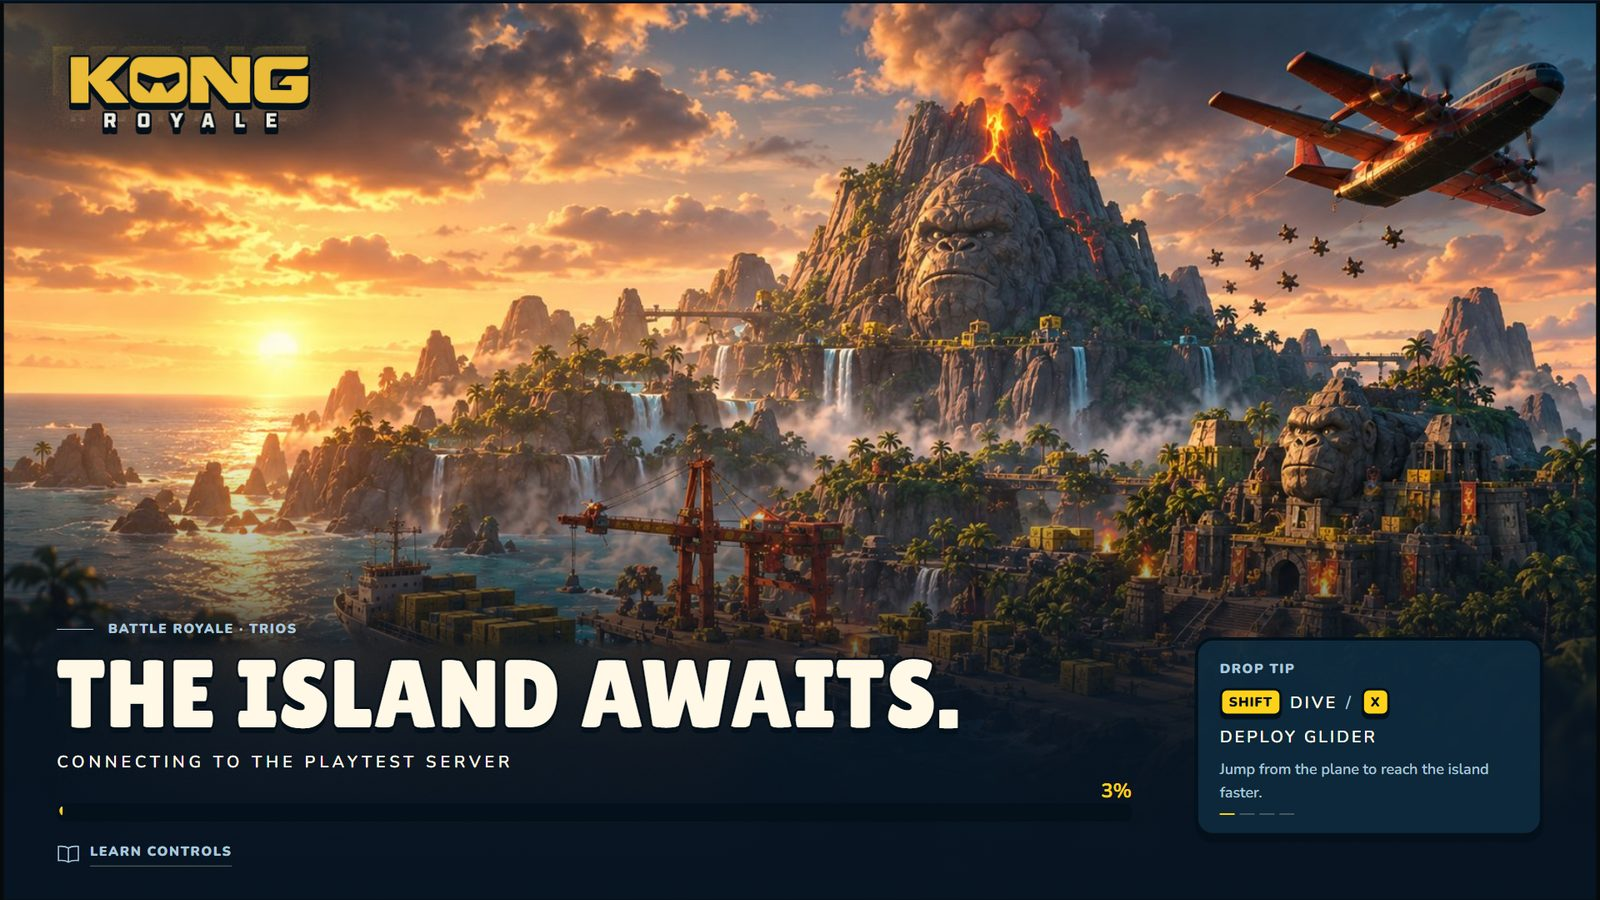
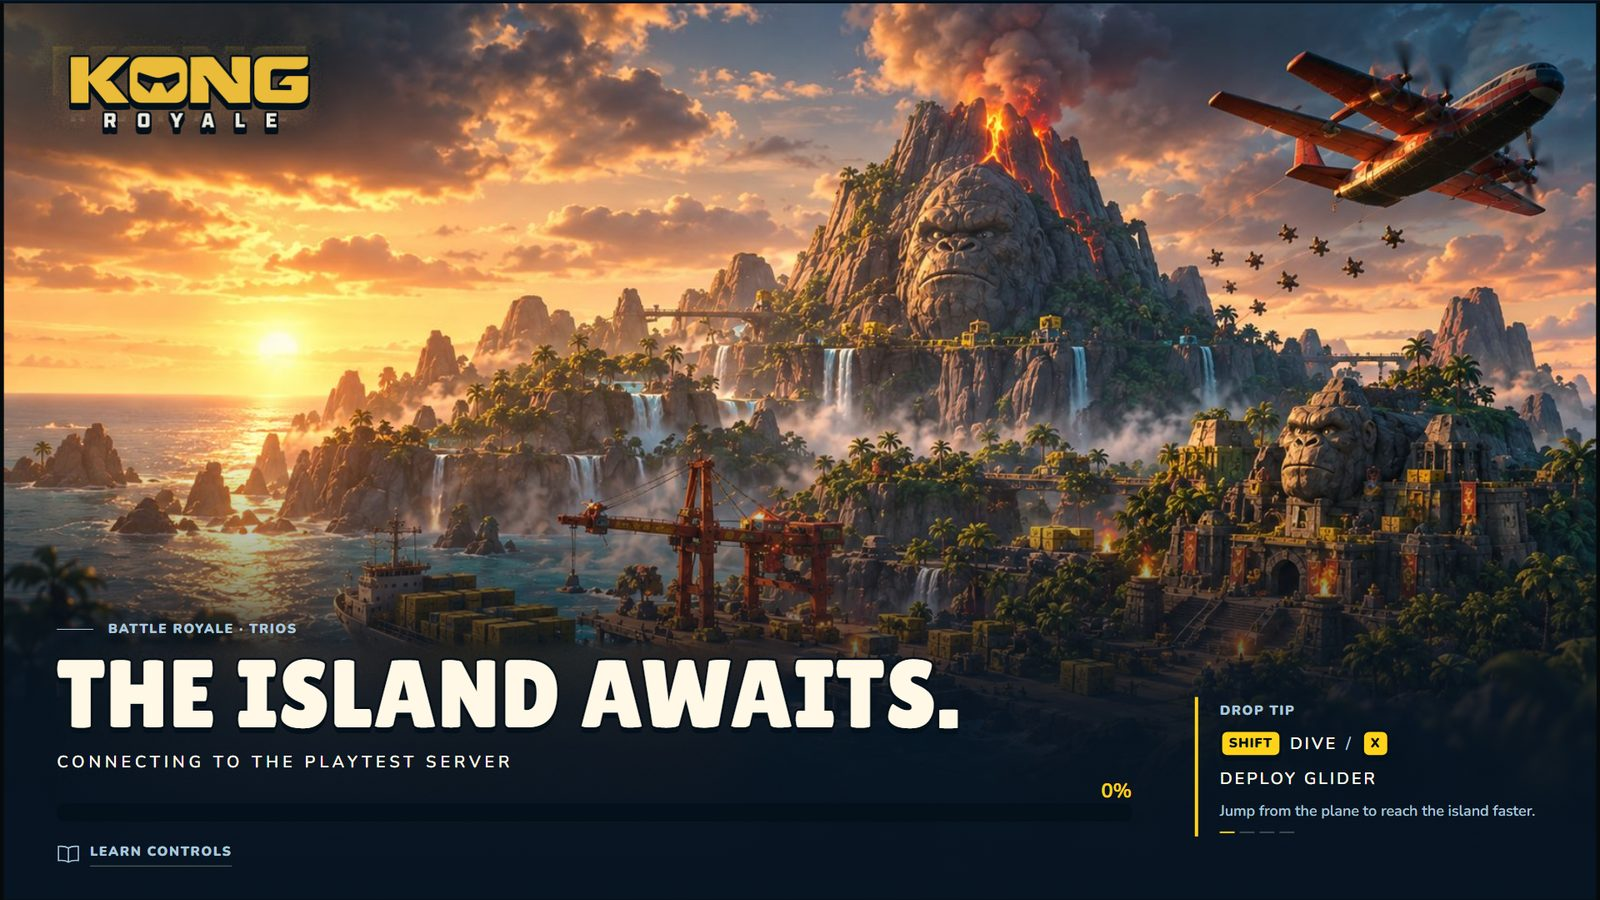
Toon: fewer containers, a middle ground with Premium
Interactive things keep the chunky Toon treatment (buttons, pills,
keycaps, rarity tiles, HUD bars and slots); content goes back to open
rows and typography: settings rows with rules and a pill marker, open
help, typographic menu and lesson lists with a yellow pill on the
current item, pill report categories, open stats, tips, legend and
ammo. Site panels get lighter borders. Docs, prompts, Codex bundle and
all 14 Toon screens updated.

Changed region(s): [[0.7188, 0.6844, 0.9688, 0.9333]]

diff --git a/css/toon.css b/css/toon.css
@@ -378,3 +378,61 @@ html[data-ds="toon"] .stage .st-help::-webkit-scrollbar { display: none; }
 html[data-ds="toon"] .stage .st-help { gap: 10px; padding: 22px 26px; }
 html[data-ds="toon"] .stage .st-help .viz { margin-top: 6px; }
 html[data-ds="toon"] .stage .st-help .k-key { height: 28px; min-width: 28px; font-size: 13px; }
+
+/* =====================================================================
+   TOON · fewer containers (a middle ground with Premium)
+   Interactive things stay chunky (buttons, pills, keycaps, rarity tiles,
+   HUD bars/slots). Content goes back to open rows and typography.
+   ===================================================================== */
+
+/* settings: continuous rows with a thin rule; selected row = soft tint + yellow pill marker */
+html[data-ds="toon"] .stage .k-table, html[data-ds="toon"] .k-scope .k-table { gap: 0; border-top: 2px solid rgba(169,198,218,.18); }
+html[data-ds="toon"] .stage .k-row, html[data-ds="toon"] .k-scope .k-row {
+  background: transparent; border: 0; border-bottom: 2px solid rgba(169,198,218,.18); border-radius: 0; box-shadow: none; min-height: 80px;
+}
+html[data-ds="toon"] .stage .k-row:hover, html[data-ds="toon"] .k-scope .k-row:hover { background: rgba(23,64,90,.35); }
+html[data-ds="toon"] .stage .k-row.sel, html[data-ds="toon"] .k-scope .k-row.sel { background: rgba(23,64,90,.6); border-color: rgba(169,198,218,.18); box-shadow: none; border-radius: 14px; }
+html[data-ds="toon"] .stage .k-row::before, html[data-ds="toon"] .k-scope .k-row::before { display: block; left: 10px; top: 18px; bottom: 18px; width: 8px; border-radius: 999px; background: var(--kong-accent); box-shadow: 0 0 0 3px var(--o); transform: scaleY(0); }
+html[data-ds="toon"] .stage .k-row.sel::before, html[data-ds="toon"] .k-scope .k-row.sel::before { transform: scaleY(1); }
+html[data-ds="toon"] .stage .st-help { background: none; border: 0; box-shadow: none; padding: 28px 0 0; }
+html[data-ds="toon"] .stage .st-divider { background: rgba(169,198,218,.18); }
+html[data-ds="toon"] .stage .viz-prev { border: 0; background: rgba(4,16,26,.45); border-radius: 18px; }
+
+/* match menu: typographic list; only the selected item becomes a chunky yellow pill */
+html[data-ds="toon"] .stage .mn-list { gap: 6px; }
+html[data-ds="toon"] .stage .mn-item { background: none; border-color: transparent; box-shadow: none; color: rgba(255,248,231,.78); padding: 12px 28px; }
+html[data-ds="toon"] .stage .mn-item:hover { color: #fff; }
+html[data-ds="toon"] .stage .mn-item.on { background: linear-gradient(180deg, #FFE45C 0%, #FFD21A 55%, #F2B800 100%); border-color: var(--o); box-shadow: 0 6px 0 var(--o); color: var(--o); }
+html[data-ds="toon"] .stage .mn-leave .mn-item { background: none; color: #FF9AA4; }
+html[data-ds="toon"] .stage .mn-leave .mn-item.on { background: linear-gradient(180deg, #FF7A86, #FF4D5E); color: #fff; }
+html[data-ds="toon"] .stage .an-grid { gap: 0; border-top: 2px solid rgba(169,198,218,.18); }
+html[data-ds="toon"] .stage .an-grid div { border: 0; border-bottom: 2px solid rgba(169,198,218,.18); border-radius: 0; background: none; box-shadow: none; padding: 20px 0; }
+
+/* report: category choices are pills; side column is open */
+html[data-ds="toon"] .stage .rp-cats { gap: 12px 10px; }
+html[data-ds="toon"] .stage .rp-cats button { border-radius: 999px; background: rgba(18,52,75,.7); box-shadow: 0 4px 0 var(--o); padding: 14px 22px !important; min-height: 0; }
+html[data-ds="toon"] .stage .rp-right { background: none; border: 0; border-left: 2px solid rgba(169,198,218,.18) !important; border-radius: 0; box-shadow: none; padding: 0 0 0 48px; }
+html[data-ds="toon"] .stage .rp-att .it { border-bottom: 2px solid rgba(169,198,218,.14); }
+
+/* loading tip, map legend/footer, results stats: open */
+html[data-ds="toon"] .stage .ld-tip { background: none; border: 0; border-left: 4px solid var(--kong-accent); border-radius: 0; box-shadow: none; padding: 4px 0 4px 26px; }
+html[data-ds="toon"] .stage .mp-foot { background: linear-gradient(90deg, rgba(7,20,34,.85), rgba(7,20,34,0)); border: 0; box-shadow: none; border-radius: 0; }
+html[data-ds="toon"] .stage .mp-side { border-radius: 0; border-left: 3px solid var(--o); }
+html[data-ds="toon"] .stage .rs-stats { gap: 0; border-block: 2px solid rgba(169,198,218,.2); }
+html[data-ds="toon"] .stage .rs-stats > div, html[data-ds="toon"] .stage .rs-stats > div + div { border: 0; border-radius: 0; background: none; box-shadow: none; padding: 16px 32px 16px 0; }
+html[data-ds="toon"] .stage .rs-stats > div + div { padding-left: 32px; border-left: 2px solid rgba(169,198,218,.2); }
+
+/* inventory: drop the rounded sheet and the ammo boxes */
+html[data-ds="toon"] .stage .iv { border-radius: 0; border-top: 3px solid var(--o); }
+html[data-ds="toon"] .stage .iv-ammo div { background: none; border: 0; box-shadow: none; border-radius: 0; padding: 0 28px; margin: 0; border-left: 2px solid rgba(169,198,218,.18); }
+html[data-ds="toon"] .stage .iv-ammo div:first-child { border-left: 0; padding-left: 0; }
+
+/* learn controls: lesson list as text with a pill on the current lesson (already) */
+html[data-ds="toon"] .stage .lb-training button { background: none; border: 0; border-bottom: 2px solid rgba(169,198,218,.18); border-radius: 0; box-shadow: none; margin: 0; padding: 22px 0; }
+
+/* site side: fewer outlined panels too */
+html[data-ds="toon"] .comp, html[data-ds="toon"] .prompt, html[data-ds="toon"] details.spec, html[data-ds="toon"] .swatch, html[data-ds="toon"] .shape-demos > div, html[data-ds="toon"] .op-card, html[data-ds="toon"] .launch, html[data-ds="toon"] .ds-feature {
+  border: 2px solid var(--rule); box-shadow: none;
+}
+html[data-ds="toon"] .comp-head { border-bottom: 2px solid var(--rule); background: none; }
+html[data-ds="toon"] .ds-feature-art { border-right: 2px solid var(--rule); }

diff --git a/design/kong-toon/reference/toon-prototype.css b/design/kong-toon/reference/toon-prototype.css
@@ -378,3 +378,61 @@ html[data-ds="toon"] .stage .st-help::-webkit-scrollbar { display: none; }
 html[data-ds="toon"] .stage .st-help { gap: 10px; padding: 22px 26px; }
 html[data-ds="toon"] .stage .st-help .viz { margin-top: 6px; }
 html[data-ds="toon"] .stage .st-help .k-key { height: 28px; min-width: 28px; font-size: 13px; }
+
+/* =====================================================================
+   TOON · fewer containers (a middle ground with Premium)
+   Interactive things stay chunky (buttons, pills, keycaps, rarity tiles,
+   HUD bars/slots). Content goes back to open rows and typography.
+   ===================================================================== */
+
+/* settings: continuous rows with a thin rule; selected row = soft tint + yellow pill marker */
+html[data-ds="toon"] .stage .k-table, html[data-ds="toon"] .k-scope .k-table { gap: 0; border-top: 2px solid rgba(169,198,218,.18); }
+html[data-ds="toon"] .stage .k-row, html[data-ds="toon"] .k-scope .k-row {
+  background: transparent; border: 0; border-bottom: 2px solid rgba(169,198,218,.18); border-radius: 0; box-shadow: none; min-height: 80px;
+}
+html[data-ds="toon"] .stage .k-row:hover, html[data-ds="toon"] .k-scope .k-row:hover { background: rgba(23,64,90,.35); }
+html[data-ds="toon"] .stage .k-row.sel, html[data-ds="toon"] .k-scope .k-row.sel { background: rgba(23,64,90,.6); border-color: rgba(169,198,218,.18); box-shadow: none; border-radius: 14px; }
+html[data-ds="toon"] .stage .k-row::before, html[data-ds="toon"] .k-scope .k-row::before { display: block; left: 10px; top: 18px; bottom: 18px; width: 8px; border-radius: 999px; background: var(--kong-accent); box-shadow: 0 0 0 3px var(--o); transform: scaleY(0); }
+html[data-ds="toon"] .stage .k-row.sel::before, html[data-ds="toon"] .k-scope .k-row.sel::before { transform: scaleY(1); }
+html[data-ds="toon"] .stage .st-help { background: none; border: 0; box-shadow: none; padding: 28px 0 0; }
+html[data-ds="toon"] .stage .st-divider { background: rgba(169,198,218,.18); }
+html[data-ds="toon"] .stage .viz-prev { border: 0; background: rgba(4,16,26,.45); border-radius: 18px; }
+
+/* match menu: typographic list; only the selected item becomes a chunky yellow pill */
+html[data-ds="toon"] .stage .mn-list { gap: 6px; }
+html[data-ds="toon"] .stage .mn-item { background: none; border-color: transparent; box-shadow: none; color: rgba(255,248,231,.78); padding: 12px 28px; }
+html[data-ds="toon"] .stage .mn-item:hover { color: #fff; }
+html[data-ds="toon"] .stage .mn-item.on { background: linear-gradient(180deg, #FFE45C 0%, #FFD21A 55%, #F2B800 100%); border-color: var(--o); box-shadow: 0 6px 0 var(--o); color: var(--o); }
+html[data-ds="toon"] .stage .mn-leave .mn-item { background: none; color: #FF9AA4; }
+html[data-ds="toon"] .stage .mn-leave .mn-item.on { background: linear-gradient(180deg, #FF7A86, #FF4D5E); color: #fff; }
+html[data-ds="toon"] .stage .an-grid { gap: 0; border-top: 2px solid rgba(169,198,218,.18); }
+html[data-ds="toon"] .stage .an-grid div { border: 0; border-bottom: 2px solid rgba(169,198,218,.18); border-radius: 0; background: none; box-shadow: none; padding: 20px 0; }
+
+/* report: category choices are pills; side column is open */
+html[data-ds="toon"] .stage .rp-cats { gap: 12px 10px; }
+html[data-ds="toon"] .stage .rp-cats button { border-radius: 999px; background: rgba(18,52,75,.7); box-shadow: 0 4px 0 var(--o); padding: 14px 22px !important; min-height: 0; }
+html[data-ds="toon"] .stage .rp-right { background: none; border: 0; border-left: 2px solid rgba(169,198,218,.18) !important; border-radius: 0; box-shadow: none; padding: 0 0 0 48px; }
+html[data-ds="toon"] .stage .rp-att .it { border-bottom: 2px solid rgba(169,198,218,.14); }
+
+/* loading tip, map legend/footer, results stats: open */
+html[data-ds="toon"] .stage .ld-tip { background: none; border: 0; border-left: 4px solid var(--kong-accent); border-radius: 0; box-shadow: none; padding: 4px 0 4px 26px; }
+html[data-ds="toon"] .stage .mp-foot { background: linear-gradient(90deg, rgba(7,20,34,.85), rgba(7,20,34,0)); border: 0; box-shadow: none; border-radius: 0; }
+html[data-ds="toon"] .stage .mp-side { border-radius: 0; border-left: 3px solid var(--o); }
+html[data-ds="toon"] .stage .rs-stats { gap: 0; border-block: 2px solid rgba(169,198,218,.2); }
+html[data-ds="toon"] .stage .rs-stats > div, html[data-ds="toon"] .stage .rs-stats > div + div { border: 0; border-radius: 0; background: none; box-shadow: none; padding: 16px 32px 16px 0; }
+html[data-ds="toon"] .stage .rs-stats > div + div { padding-left: 32px; border-left: 2px solid rgba(169,198,218,.2); }
+
+/* inventory: drop the rounded sheet and the ammo boxes */
+html[data-ds="toon"] .stage .iv { border-radius: 0; border-top: 3px solid var(--o); }
+html[data-ds="toon"] .stage .iv-ammo div { background: none; border: 0; box-shadow: none; border-radius: 0; padding: 0 28px; margin: 0; border-left: 2px solid rgba(169,198,218,.18); }
+html[data-ds="toon"] .stage .iv-ammo div:first-child { border-left: 0; padding-left: 0; }
+
+/* learn controls: lesson list as text with a pill on the current lesson (already) */
+html[data-ds="toon"] .stage .lb-training button { background: none; border: 0; border-bottom: 2px solid rgba(169,198,218,.18); border-radius: 0; box-shadow: none; margin: 0; padding: 22px 0; }
+
+/* site side: fewer outlined panels too */
+html[data-ds="toon"] .comp, html[data-ds="toon"] .prompt, html[data-ds="toon"] details.spec, html[data-ds="toon"] .swatch, html[data-ds="toon"] .shape-demos > div, html[data-ds="toon"] .op-card, html[data-ds="toon"] .launch, html[data-ds="toon"] .ds-feature {
+  border: 2px solid var(--rule); box-shadow: none;
+}
+html[data-ds="toon"] .comp-head { border-bottom: 2px solid var(--rule); background: none; }
+html[data-ds="toon"] .ds-feature-art { border-right: 2px solid var(--rule); }

diff --git a/index.html b/index.html
@@ -7,9 +7,9 @@
 <link rel="preconnect" href="https://fonts.googleapis.com">
 <link rel="preconnect" href="https://fonts.gstatic.com" crossorigin>
 <link rel="stylesheet" href="https://fonts.googleapis.com/css2?family=Changa+One:ital@0;1&family=Lilita+One&family=Nunito:wght@600;700;800;900&family=Barlow:wght@400;500;600;700&family=Barlow+Semi+Condensed:wght@500;600;700&family=JetBrains+Mono:wght@400;500&display=swap">
-<link rel="stylesheet" href="css/site.css?v=20261012i">
-<link rel="stylesheet" href="css/game.css?v=20261012i">
-<link rel="stylesheet" href="css/toon.css?v=20261012i">
+<link rel="stylesheet" href="css/site.css?v=20261012j">
+<link rel="stylesheet" href="css/game.css?v=20261012j">
+<link rel="stylesheet" href="css/toon.css?v=20261012j">
 
 <div id="app">
   <header class="topbar" id="topbar">
@@ -74,7 +74,7 @@
 
 <script src="https://cdnjs.cloudflare.com/ajax/libs/marked/12.0.2/marked.min.js"></script>
 <script src="https://cdnjs.cloudflare.com/ajax/libs/jszip/3.10.1/jszip.min.js"></script>
-<script src="js/data.js?v=20261012i"></script>
-<script src="js/gameplay.js?v=20261012i"></script>
-<script src="js/game.js?v=20261012i"></script>
-<script src="js/site.js?v=20261012i"></script>
+<script src="js/data.js?v=20261012j"></script>
+<script src="js/gameplay.js?v=20261012j"></script>
+<script src="js/game.js?v=20261012j"></script>
+<script src="js/site.js?v=20261012j"></script>

diff --git a/design/kong-toon/design-system.md b/design/kong-toon/design-system.md
@@ -8,6 +8,8 @@
 
 Kong Royale is a playful gorilla battle royale. Toon keeps the original game's colours (deep navy menus, banana-yellow logo and buttons, the bright lobby sky) and gives them a clean, chunky cartoon finish, in the spirit of big-studio party shooters: bold rounded type, thick dark outlines, hard drop shadows, rounded pills and springy motion.
 
+Containers are used sparingly. Only things you press or pick up get the chunky treatment (buttons, pills, keycaps, item and weapon tiles, HUD bars and slots). Content (settings rows, help, menu lists, stats, legends, tips) stays open and typographic like Premium, separated by thin rules.
+
 Clean still comes first. Every screen keeps the Premium structure: one category bar in Settings, one primary action per region, honest states, the same layouts and input rules. Toon changes how things look and feel, not where they are or how they behave.
 
 ## Brand
@@ -77,7 +79,7 @@ Primary: yellow gradient, dark text, 4px outline, 6px drop. Hover lifts 3px and 
 Category tabs, sub-sections and mode choices (Trios / Solo) are outlined pills. Active pill is yellow with dark text; inactive is navy with pale text. No underline indicator in Toon.
 
 ### Settings rows
-Each row is an outlined navy tile with a 5px drop. The selected row gets a yellow outline. Label left, control column right, contextual help in a separate outlined panel.
+Continuous rows separated by 2px rules, no tile per row. The selected row gets a soft navy tint with rounded corners and a short yellow pill marker on the left. Label left, control column right. Contextual help sits open beside the table, divided by a thin rule, not in a panel.
 
 ### Slider, switch, segment
 Slider: 14px rounded track, yellow gradient fill, a 30px ivory thumb with outline and drop. Switch: outlined pill, green when on, with explicit On / Off text. Segment: a dark pill track with a yellow active pill.
@@ -101,7 +103,7 @@ Dialogs: navy gradient panel, 26px radius, 4px outline, 10px drop, a pop-in with
 
 ## Layouts
 
-Same five templates as Premium (settings shell, overlay and guide, gameplay, map, lobby / loading / results). Toon swaps typographic lists for chunky stacked buttons where it helps (match menu, lesson list) and puts help, legend and stats into outlined panels instead of hairline columns.
+Same five templates as Premium (settings shell, overlay and guide, gameplay, map, lobby / loading / results). Lists stay typographic: in the match menu and lesson list only the current item becomes a chunky yellow pill. Help, legends, stats and tips stay open with thin rules. Report categories are pills.
 
 ## Motion
 

diff --git a/downloads/kong-design-system-toon.md b/downloads/kong-design-system-toon.md
@@ -8,6 +8,8 @@
 
 Kong Royale is a playful gorilla battle royale. Toon keeps the original game's colours (deep navy menus, banana-yellow logo and buttons, the bright lobby sky) and gives them a clean, chunky cartoon finish, in the spirit of big-studio party shooters: bold rounded type, thick dark outlines, hard drop shadows, rounded pills and springy motion.
 
+Containers are used sparingly. Only things you press or pick up get the chunky treatment (buttons, pills, keycaps, item and weapon tiles, HUD bars and slots). Content (settings rows, help, menu lists, stats, legends, tips) stays open and typographic like Premium, separated by thin rules.
+
 Clean still comes first. Every screen keeps the Premium structure: one category bar in Settings, one primary action per region, honest states, the same layouts and input rules. Toon changes how things look and feel, not where they are or how they behave.
 
 ## Brand
@@ -77,7 +79,7 @@ Primary: yellow gradient, dark text, 4px outline, 6px drop. Hover lifts 3px and 
 Category tabs, sub-sections and mode choices (Trios / Solo) are outlined pills. Active pill is yellow with dark text; inactive is navy with pale text. No underline indicator in Toon.
 
 ### Settings rows
-Each row is an outlined navy tile with a 5px drop. The selected row gets a yellow outline. Label left, control column right, contextual help in a separate outlined panel.
+Continuous rows separated by 2px rules, no tile per row. The selected row gets a soft navy tint with rounded corners and a short yellow pill marker on the left. Label left, control column right. Contextual help sits open beside the table, divided by a thin rule, not in a panel.
 
 ### Slider, switch, segment
 Slider: 14px rounded track, yellow gradient fill, a 30px ivory thumb with outline and drop. Switch: outlined pill, green when on, with explicit On / Off text. Segment: a dark pill track with a yellow active pill.
@@ -101,7 +103,7 @@ Dialogs: navy gradient panel, 26px radius, 4px outline, 10px drop, a pop-in with
 
 ## Layouts
 
-Same five templates as Premium (settings shell, overlay and guide, gameplay, map, lobby / loading / results). Toon swaps typographic lists for chunky stacked buttons where it helps (match menu, lesson list) and puts help, legend and stats into outlined panels instead of hairline columns.
+Same five templates as Premium (settings shell, overlay and guide, gameplay, map, lobby / loading / results). Lists stay typographic: in the match menu and lesson list only the current item becomes a chunky yellow pill. Help, legends, stats and tips stay open with thin rules. Report categories are pills.
 
 ## Motion
 

diff --git a/design/kong-toon/implementation-prompts.md b/design/kong-toon/implementation-prompts.md
@@ -85,9 +85,9 @@ error states:
   red gradient only inside the confirm dialog). Max one primary per task region.
 - Tabs / category nav: outlined pills with a 4px drop; inactive navy with pale text, active
   yellow with dark text. No underline indicator.
-- SettingRow: an outlined navy tile (18px radius, 3px outline, 5px drop), min 84px tall, label
-  left, control column right, 10px gap between tiles; the selected/focused tile gets a yellow
-  outline.
+- SettingRow: continuous rows with 2px rules (no tile per row), min 80px tall, label left,
+  control column right; the selected/focused row gets a soft rounded navy tint and a short
+  yellow pill marker. Keep chunky outlines for things you press, not for content.
 - Slider: label, fixed 280–360px rounded 14px track with a yellow gradient fill and a 30px
   outlined ivory thumb, numeric value with unit, pointer drag, arrow-key and
   controller stepping (fine + coarse), optional direct numeric entry.

diff --git a/downloads/kong-implementation-prompts-toon.md b/downloads/kong-implementation-prompts-toon.md
@@ -85,9 +85,9 @@ error states:
   red gradient only inside the confirm dialog). Max one primary per task region.
 - Tabs / category nav: outlined pills with a 4px drop; inactive navy with pale text, active
   yellow with dark text. No underline indicator.
-- SettingRow: an outlined navy tile (18px radius, 3px outline, 5px drop), min 84px tall, label
-  left, control column right, 10px gap between tiles; the selected/focused tile gets a yellow
-  outline.
+- SettingRow: continuous rows with 2px rules (no tile per row), min 80px tall, label left,
+  control column right; the selected/focused row gets a soft rounded navy tint and a short
+  yellow pill marker. Keep chunky outlines for things you press, not for content.
 - Slider: label, fixed 280–360px rounded 14px track with a yellow gradient fill and a 30px
   outlined ivory thumb, numeric value with unit, pointer drag, arrow-key and
   controller stepping (fine + coarse), optional direct numeric entry.
